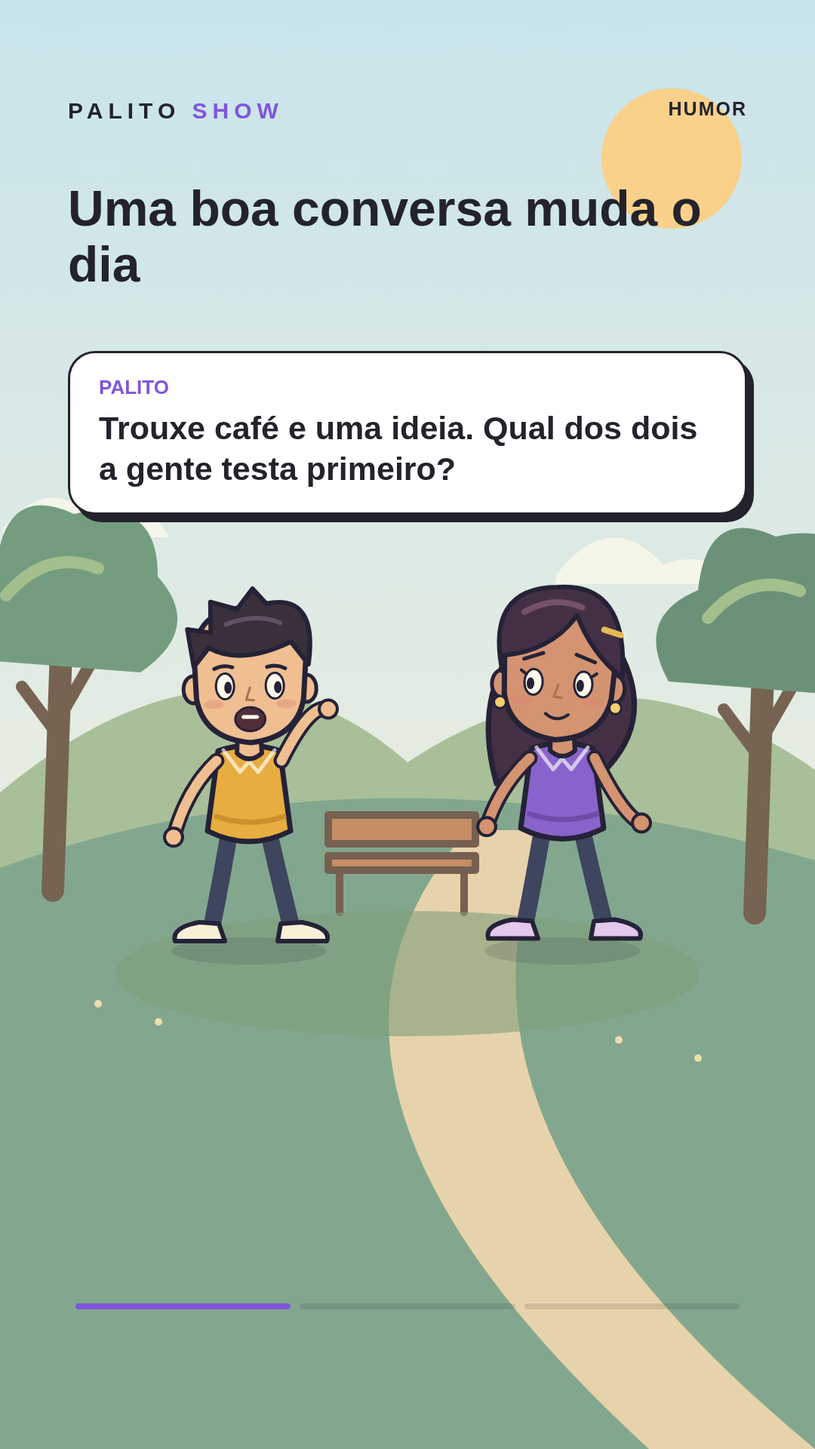
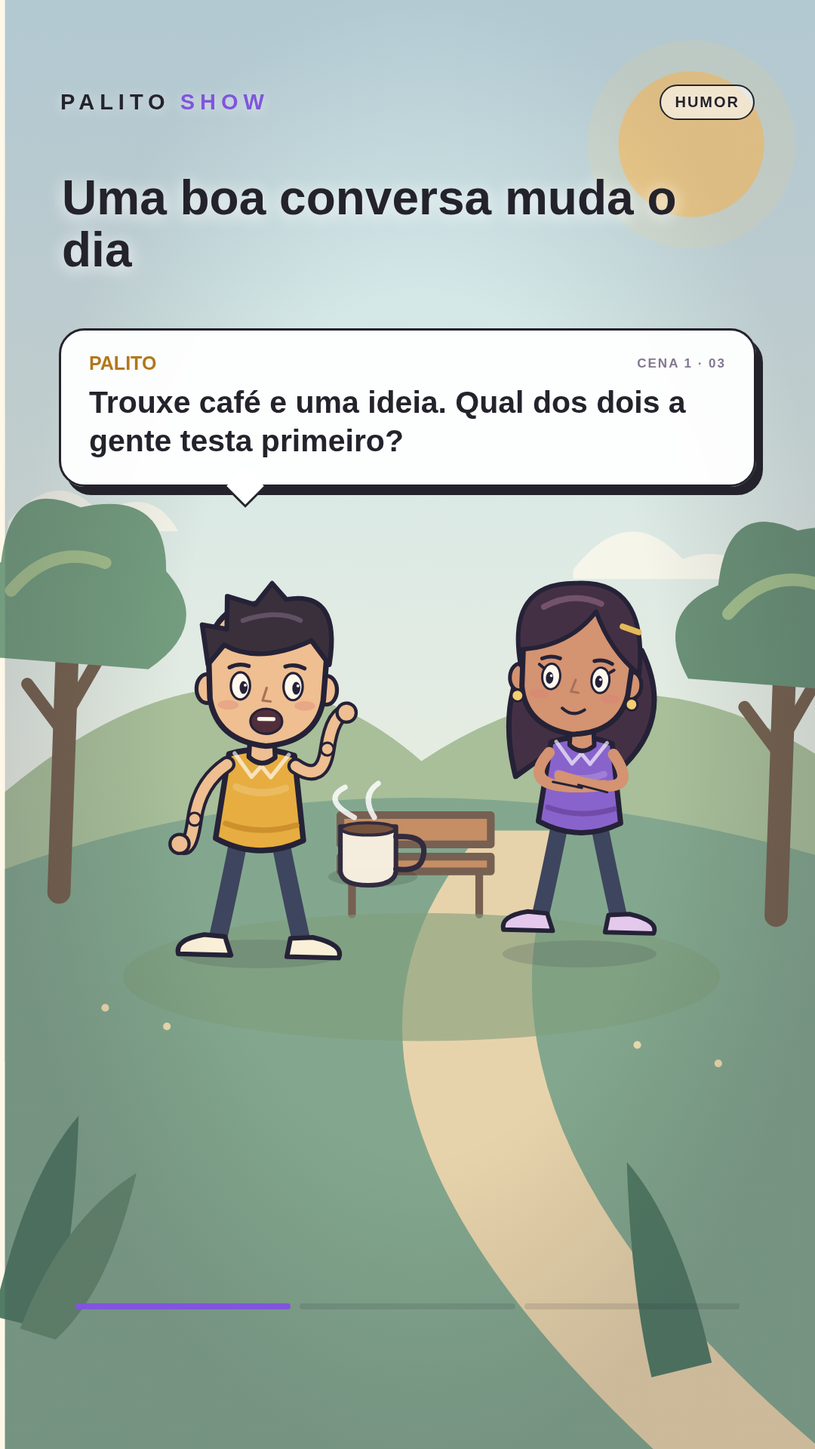
Melhorar animacoes e cenarios do Palito Show

diff --git a/src/Scenery.tsx b/src/Scenery.tsx
@@ -2,14 +2,22 @@ import React from 'react';
 export type Setting='sala'|'parque'|'cafe';
 export function Scenery({setting,frame}:{setting:Setting;frame:number}){const cloud=Math.sin(frame*.006)*18;
  return <g strokeLinecap="round" strokeLinejoin="round">
- <defs><linearGradient id="sky" x2="0" y2="1"><stop stopColor="#c8e4eb"/><stop offset="1" stopColor="#fff3d9"/></linearGradient><linearGradient id="wall" x2="0" y2="1"><stop stopColor="#f8ead8"/><stop offset="1" stopColor="#e8cdb9"/></linearGradient><linearGradient id="ground" x2="0" y2="1"><stop stopColor="#dbbe96"/><stop offset="1" stopColor="#f4e3c6"/></linearGradient></defs>
+ <defs><linearGradient id="sky" x2="0" y2="1"><stop stopColor="#c8e4eb"/><stop offset="1" stopColor="#fff3d9"/></linearGradient><linearGradient id="wall" x2="0" y2="1"><stop stopColor="#f8ead8"/><stop offset="1" stopColor="#e8cdb9"/></linearGradient><linearGradient id="ground" x2="0" y2="1"><stop stopColor="#dbbe96"/><stop offset="1" stopColor="#f4e3c6"/></linearGradient><radialGradient id="vignette"><stop offset="58%" stopColor="#000" stopOpacity="0"/><stop offset="100%" stopColor="#1f1730" stopOpacity=".9"/></radialGradient></defs>
  <rect width="1080" height="1920" fill={setting==='parque'?'url(#sky)':'url(#wall)'}/>
- {setting==='parque'?<><circle cx="890" cy="210" r="93" fill="#f9d18a"/><g transform={`translate(${cloud} 0)`} fill="#fff9ed" opacity=".7"><path d="M0 700q65-76 120-10q66-41 101 22H0Z"/><path d="M733 762q71-92 142-14q59-22 104 26H733Z"/></g><path d="M0 1050Q300 800 540 1010Q810 831 1080 1020V1400H0Z" fill="#a8bf9a"/><path d="M0 1150Q500 970 1080 1140V1920H0Z" fill="#83a78e"/><path d="M620 1100Q325 1430 860 1920H1080Q547 1480 730 1100Z" fill="#e7d3ab"/>
+ {setting==='parque'?<><circle cx="890" cy="210" r={93+Math.sin(frame*.025)*2} fill="#f9d18a"/><circle cx="890" cy="210" r="135" fill="#ffe8a7" opacity=".22"/><g transform={`translate(${cloud} 0)`} fill="#fff9ed" opacity=".7"><path d="M0 700q65-76 120-10q66-41 101 22H0Z"/><path d="M733 762q71-92 142-14q59-22 104 26H733Z"/></g><g transform={`translate(${frame%520-150} ${590+Math.sin(frame*.03)*8})`} stroke="#6a7782" strokeWidth="5" fill="none"><path d="M0 0q16-13 32 0q16-13 32 0"/></g><path d="M0 1050Q300 800 540 1010Q810 831 1080 1020V1400H0Z" fill="#a8bf9a"/><path d="M0 1150Q500 970 1080 1140V1920H0Z" fill="#83a78e"/><path d="M620 1100Q325 1430 860 1920H1080Q547 1480 730 1100Z" fill="#e7d3ab"/>
  {[70,1000].map((x,i)=><g key={x} transform={`translate(${x} ${i?30:0})`}><path d="M0 1180L12 834" stroke="#766351" strokeWidth="30"/><path d="M12 981l-53-71 M10 949l54-94" stroke="#766351" strokeWidth="16"/><path d="M-114 873Q-161 788-75 752Q-63 639 28 681Q140 657 139 764Q201 833 116 891Z" fill={i?'#6b9278':'#749d7f'}/><path d="M-62 789q54-63 122-36" fill="none" stroke="#a3bf8d" strokeWidth="16"/></g>)}<g stroke="#766052" strokeWidth="10" fill="#c58e64"><path d="M435 1080h195v38H435Z M435 1134h195v19H435Z"/><path d="M450 1155v54m165-54v54"/></g><g fill="#edddaf">{[130,210,820,925].map((x,i)=><circle key={x} cx={x} cy={1330+i*24} r="5"/>)}</g></>:
  <><rect y="1160" width="1080" height="760" fill="url(#ground)"/><path d="M0 1160h1080" stroke="#a5836c" strokeWidth="8"/>{[1300,1470,1670,1870].map(y=><path key={y} d={`M0 ${y}h1080`} stroke="#c49f79" opacity=".35" strokeWidth="3"/>)}<path d="M280 1160L0 1920 M800 1160l280 760 M540 1160v760" stroke="#c49f79" strokeWidth="3" opacity=".3"/>
  <g stroke="#a78065" strokeWidth="12"><rect x="78" y="735" width="260" height="300" rx="65" fill="#bcd9df"/><path d="M208 739v290 M84 885h249"/><path d="M99 1009q85-94 223-30" fill="#93b6a1" stroke="none"/></g>
- {setting==='sala'?<><rect x="428" y="906" width="533" height="240" rx="54" fill="#b77765" stroke="#865b52" strokeWidth="7"/><rect x="459" y="1015" width="202" height="116" rx="30" fill="#ce9280"/><rect x="679" y="1015" width="248" height="116" rx="30" fill="#ce9280"/><path d="M450 1140v44m482-44v44" stroke="#735346" strokeWidth="15"/><rect x="511" y="952" width="105" height="79" rx="20" fill="#e9be74" transform="rotate(-8 560 990)"/><path d="M981 1134V856" stroke="#78654f" strokeWidth="13"/><path d="M897 860h170l-36-111h-98Z" fill="#f4cd81"/><rect x="528" y="744" width="190" height="122" rx="8" fill="#fff5e4" stroke="#ac8a69" strokeWidth="8"/><path d="M553 838l48-63 39 41 31-25 25 47Z" fill="#99b5a2"/></>:<><rect x="437" y="921" width="575" height="229" rx="12" fill="#698783" stroke="#466563" strokeWidth="6"/><rect x="419" y="904" width="613" height="30" rx="8" fill="#ad7e57"/><rect x="535" y="746" width="185" height="140" rx="12" fill="#3c5351" stroke="#ab815d" strokeWidth="10"/><text x="628" y="800" textAnchor="middle" fill="#f5e6be" fontSize="28" fontFamily="Arial">CAFÉ &amp; PAPO</text><path d="M575 826h106m-85 22h68" stroke="#b8c9b5" strokeWidth="4"/><rect x="810" y="830" width="120" height="73" rx="12" fill="#cfb897"/><path d="M835 853h70" stroke="#6b645b" strokeWidth="12"/>{[130,905].map(x=><g key={x}><path d={`M${x} 1130v128`} stroke="#746250" strokeWidth="10"/><ellipse cx={x} cy="1130" rx="87" ry="19" fill="#a67e59"/><path d={`M${x-18} 1107v-29h30v29Z`} fill="#fff2d9" stroke="#997a60" strokeWidth="3"/></g>)}</>}
+ {setting==='sala'?<><rect x="428" y="906" width="533" height="240" rx="54" fill="#b77765" stroke="#865b52" strokeWidth="7"/><rect x="459" y="1015" width="202" height="116" rx="30" fill="#ce9280"/><rect x="679" y="1015" width="248" height="116" rx="30" fill="#ce9280"/><path d="M450 1140v44m482-44v44" stroke="#735346" strokeWidth="15"/><rect x="511" y="952" width="105" height="79" rx="20" fill="#e9be74" transform="rotate(-8 560 990)"/><path d="M981 1134V856" stroke="#78654f" strokeWidth="13"/><path d="M897 860h170l-36-111h-98Z" fill="#f4cd81"/><ellipse cx="982" cy="870" rx="132" ry="165" fill="#ffe8a7" opacity={.08+Math.sin(frame*.02)*.012} stroke="none"/><rect x="528" y="744" width="190" height="122" rx="8" fill="#fff5e4" stroke="#ac8a69" strokeWidth="8"/><path d="M553 838l48-63 39 41 31-25 25 47Z" fill="#99b5a2"/></>:<><rect x="437" y="921" width="575" height="229" rx="12" fill="#698783" stroke="#466563" strokeWidth="6"/><rect x="419" y="904" width="613" height="30" rx="8" fill="#ad7e57"/><rect x="535" y="746" width="185" height="140" rx="12" fill="#3c5351" stroke="#ab815d" strokeWidth="10"/><text x="628" y="800" textAnchor="middle" fill="#f5e6be" fontSize="28" fontFamily="Arial">CAFÉ &amp; PAPO</text><path d="M575 826h106m-85 22h68" stroke="#b8c9b5" strokeWidth="4"/><rect x="810" y="830" width="120" height="73" rx="12" fill="#cfb897"/><path d="M835 853h70" stroke="#6b645b" strokeWidth="12"/>{[130,905].map(x=><g key={x}><path d={`M${x} 1130v128`} stroke="#746250" strokeWidth="10"/><ellipse cx={x} cy="1130" rx="87" ry="19" fill="#a67e59"/><path d={`M${x-18} 1107v-29h30v29Z`} fill="#fff2d9" stroke="#997a60" strokeWidth="3"/></g>)}<g opacity={.65+Math.sin(frame*.04)*.08} stroke="#fff" strokeWidth="6" fill="none"><path d="M109 1083q-17-22 2-42 M130 1081q18-23 2-42"/><path d="M884 1083q-17-22 2-42 M907 1081q18-23 2-42"/></g></>}
  <g transform="translate(34 1110)"><path d="M0 0q-52-100 9-138q19 53 13 98q9-87 65-95q7 81-65 123" fill="#658d72"/><path d="M-20-9h66l-9 83h-47Z" fill="#cc946c"/></g></>}
  <ellipse cx="540" cy="1290" rx="387" ry="83" fill={setting==='parque'?'#7e9e7b':'#eee0c5'} opacity=".6"/>
+ </g>;
+}
+
+export function Foreground({setting,frame}:{setting:Setting;frame:number}){
+ const sway=Math.sin(frame*.018)*6;
+ return <g pointerEvents="none">
+  {setting==='parque'?<><g transform={`translate(${-18+sway} 1450)`}><path d="M0 280q40-180 110-260q-5 163-32 279" fill="#527c65"/><path d="M34 296q54-142 151-202q-35 153-105 216" fill="#668b70"/></g><g transform={`translate(${920-sway} 1510) scale(-1 1)`}><path d="M0 280q40-180 110-260q-5 163-32 279" fill="#527c65"/></g></>:<><path d={`M0 1760q95-180 ${190+sway}-97q62 68 120 257H0Z`} fill="#6e8f72" opacity=".42"/><path d={`M1080 1780q-90-167 ${-180-sway}-94q-62 79-108 234h108Z`} fill="#806f9d" opacity=".32"/></>}
+  <rect x="0" y="0" width="1080" height="1920" fill="url(#vignette)" opacity=".15"/>
  </g>;
 }

diff --git a/src/Character.tsx b/src/Character.tsx
@@ -1,32 +1,36 @@
 import React from 'react';
 import type {Scene} from './model';
-export function Character({x,female,action,t,active,mouthLevel}:{x:number;female:boolean;action:Scene['action'];t:number;active:boolean;mouthLevel?:number}){
+type CharacterProps={x:number;female:boolean;action:Scene['action'];t:number;active:boolean;mouthLevel?:number;look?:-1|1;depth?:number};
+export function Character({x,female,action,t,active,mouthLevel,look=female?-1:1,depth=1}:CharacterProps){
  const ink='#252237',skin=female?'#d49371':'#efbe91',shirt=female?'#8963cc':'#e7ad40';
  const walk=action==='andar'?Math.sin(t*.16)*29:0;
  const jump=['pular','comemorar'].includes(action)?-Math.abs(Math.sin(t*.12))*58:0;
- const y=813+jump+Math.sin(t*.08)*3+(action==='rir'?Math.sin(t*.7)*3:0);
+ const breath=Math.sin(t*.075),y=813+jump+breath*3+(action==='rir'?Math.sin(t*.7)*3:0);
  const tilt=action==='escorregar'?Math.sin(Math.min(t/48,1)*Math.PI/2)*42:action==='negar'?Math.sin(t*.2)*4:0;
  const blink=t%130>123, mouth=mouthLevel===undefined?(active?Math.abs(Math.sin(t*.5)):.05):mouthLevel;
  const gesture=active?Math.sin(t*.15)*12:Math.sin(t*.06)*4;
+ const bodyLean=active?look*(2+Math.sin(t*.1)*1.5):look*-1.5;
+ const headTurn=look*(active?3:5),eyeShift=look*(active?4:2);
  const rightY=action==='acenar'?135+Math.sin(t*.28)*26:action==='apontar'?205:['pular','comemorar'].includes(action)?120:280+gesture;
  const leftY=['pular','comemorar'].includes(action)?125:285-gesture;
  return <g data-character={female?'TICA':'PALITO'} stroke={ink} strokeLinecap="round" strokeLinejoin="round">
- <ellipse cx={x} cy="1260" rx="103" ry="18" fill="#29243b" opacity=".14" stroke="none"/>
- <g transform={`translate(${x+walk*.4},${y}) rotate(${tilt} 0 290)`}>
+ <ellipse cx={x} cy="1260" rx={103*depth} ry={18*depth} fill="#29243b" opacity=".14" stroke="none"/>
+ <g transform={`translate(${x+walk*.4},${y}) scale(${depth}) rotate(${tilt+bodyLean} 0 290)`}>
  {female&&<path d="M-77 68 Q-113 136-87 228 L-37 190 58 209 Q122 142 77 55Z" fill="#443044" strokeWidth="7"/>}
  <g strokeWidth="23" fill="none"><path d={`M-26 288 Q${-36+walk} 348 ${-50+walk} 418`} stroke="#3e455e"/><path d={`M26 288 Q${40-walk} 350 ${57-walk} 418`} stroke="#3e455e"/></g>
  <g strokeWidth="6" fill={female?'#e4c9ed':'#faf0d8'}><path d={`M${-66+walk} 408 l26 2 8 23 -66 0 q-5-18 32-25Z`}/><path d={`M${42-walk} 410 l28-2 q40 8 33 25 l-65 0Z`}/></g>
- <path d="M-41 181 Q0 167 41 181 L55 287 Q0 315-55 287Z" fill={shirt} strokeWidth="7"/>
+ <path d={`M-41 181 Q0 ${167+breath*2} 41 181 L55 287 Q0 315-55 287Z`} fill={shirt} strokeWidth="7"/>
  <path d="M-34 180 L-12 209 0 195 12 209 34 180" fill="none" stroke="#fff" strokeOpacity=".65" strokeWidth="5"/>
+ <path d="M-31 222q31 13 62 0" fill="none" stroke="#fff" strokeOpacity=".18" strokeWidth="9"/>
  <path d="M-43 268 Q0 283 46 268" stroke={female?'#704ba8':'#ce902c'} fill="none" strokeWidth="7"/>
  <path d="M-15 157 L-16 184 Q0 199 17 184 L15 155" fill={skin} strokeWidth="6"/>
- {action==='cruzar'?<g fill="none" strokeWidth="15"><path d="M-43 195 Q-89 251 31 237" stroke={skin}/><path d="M43 195 Q90 260-28 226" stroke={skin}/><path d="M-37 234l39 7 M36 246l-39-9" stroke={ink} strokeWidth="3"/></g>:<g fill="none"><path d={`M-43 194 Q-83 232 -100 ${leftY}`} stroke={ink} strokeWidth="21"/><path d={`M-43 194 Q-83 232 -100 ${leftY}`} stroke={skin} strokeWidth="13"/><path d={`M43 194 Q81 ${rightY-8} 105 ${rightY}`} stroke={ink} strokeWidth="21"/><path d={`M43 194 Q81 ${rightY-8} 105 ${rightY}`} stroke={skin} strokeWidth="13"/><circle cx="-100" cy={leftY} r="12" fill={skin} strokeWidth="4"/><circle cx="105" cy={rightY} r="12" fill={skin} strokeWidth="4"/>{action==='apontar'&&<path d={`M111 ${rightY-6}l25-9`} stroke={skin} strokeWidth="8"/>}</g>}
- <g transform={`rotate(${action==='triste'?-8:active?Math.sin(t*.1)*2:3})`}>
+ {action==='cruzar'?<g fill="none" strokeWidth="15"><path d="M-43 195 Q-89 251 31 237" stroke={skin}/><path d="M43 195 Q90 260-28 226" stroke={skin}/><path d="M-37 234l39 7 M36 246l-39-9" stroke={ink} strokeWidth="3"/></g>:<g fill="none"><path d={`M-43 194 Q-77 218 -82 ${238+(leftY-238)*.45} T-100 ${leftY}`} stroke={ink} strokeWidth="21"/><path d={`M-43 194 Q-77 218 -82 ${238+(leftY-238)*.45} T-100 ${leftY}`} stroke={skin} strokeWidth="13"/><path d={`M43 194 Q77 216 82 ${218+(rightY-218)*.5} T105 ${rightY}`} stroke={ink} strokeWidth="21"/><path d={`M43 194 Q77 216 82 ${218+(rightY-218)*.5} T105 ${rightY}`} stroke={skin} strokeWidth="13"/><circle cx="-82" cy={238+(leftY-238)*.45} r="8" fill={skin} strokeWidth="3"/><circle cx="82" cy={218+(rightY-218)*.5} r="8" fill={skin} strokeWidth="3"/><circle cx="-100" cy={leftY} r="12" fill={skin} strokeWidth="4"/><circle cx="105" cy={rightY} r="12" fill={skin} strokeWidth="4"/>{action==='apontar'&&<><path d={`M111 ${rightY-6}l25-9`} stroke={skin} strokeWidth="8"/><path d={`M103 ${rightY+4}l20 8`} stroke={skin} strokeWidth="5"/></>}</g>}
+ <g transform={`translate(${headTurn} 0) rotate(${action==='triste'?-8:active?Math.sin(t*.1)*2:3})`}>
  <ellipse cx="-75" cy="99" rx="13" ry="18" fill={skin} strokeWidth="5"/><ellipse cx="75" cy="99" rx="13" ry="18" fill={skin} strokeWidth="5"/>
  <path d="M-73 65 Q-76-9 0-9 Q81-9 74 67 L71 112 Q62 164 0 170 Q-62 164-71 111Z" fill={skin} strokeWidth="7"/>
  {female?<><path d="M-75 83 Q-103-26-9-32 Q86-44 84 83 Q43 55 20 4 Q-12 53-75 62Z" fill="#443044" strokeWidth="6"/><path d="M-50 3 Q-13-21 26-7" stroke="#74536a" strokeWidth="8" fill="none"/><path d="M57 21l22 6" stroke="#e4ba57" strokeWidth="8"/><circle cx="-76" cy="124" r="8" fill="#f4cf70" strokeWidth="3"/><circle cx="77" cy="124" r="8" fill="#f4cf70" strokeWidth="3"/></>:<><path d="M-74 69 L-82 19 -51 24 -51-17 -16-7 5-34 23-14 Q92-27 78 67 L55 37 Q-11 68-54 44Z" fill="#39303b" strokeWidth="6"/><path d="M-31 13Q12-2 41 12" stroke="#625064" strokeWidth="6" fill="none"/></>}
  <g strokeWidth="5" fill="none"><path d={action==='surpresa'?'M-47 65l25-9 M22 56l25 9':action==='triste'?'M-48 74l27-10 M21 64l27 10':'M-47 72q12-6 24-2 M23 70q12-4 24 2'}/></g>
- {blink?<path d="M-43 93q10 6 20 0 M23 93q10 6 20 0" strokeWidth="5" fill="none"/>:<g><ellipse cx="-33" cy="95" rx="12" ry="17" fill="#fff9ed" strokeWidth="3"/><ellipse cx="33" cy="95" rx="12" ry="17" fill="#fff9ed" strokeWidth="3"/><ellipse cx={female?-37:-29} cy="97" rx="5" ry="8" fill={ink} stroke="none"/><ellipse cx={female?29:37} cy="97" rx="5" ry="8" fill={ink} stroke="none"/>{female&&<path d="M-43 85l-7-5 M43 85l7-5" strokeWidth="4"/>}</g>}
+ {blink?<path d="M-43 93q10 6 20 0 M23 93q10 6 20 0" strokeWidth="5" fill="none"/>:<g><ellipse cx="-33" cy="95" rx="12" ry="17" fill="#fff9ed" strokeWidth="3"/><ellipse cx="33" cy="95" rx="12" ry="17" fill="#fff9ed" strokeWidth="3"/><ellipse cx={-33+eyeShift} cy="97" rx="5" ry="8" fill={ink} stroke="none"/><ellipse cx={33+eyeShift} cy="97" rx="5" ry="8" fill={ink} stroke="none"/><circle cx={-31+eyeShift} cy="94" r="1.8" fill="#fff" stroke="none"/><circle cx={35+eyeShift} cy="94" r="1.8" fill="#fff" stroke="none"/>{female&&<path d="M-43 85l-7-5 M43 85l7-5" strokeWidth="4"/>}</g>}
  <path d="M0 97l-5 16 10 1" fill="none" stroke="#a87058" strokeWidth="3"/>
  <ellipse cx="-48" cy="119" rx="13" ry="6" fill="#dd7d76" opacity=".35" stroke="none"/><ellipse cx="48" cy="119" rx="13" ry="6" fill="#dd7d76" opacity=".35" stroke="none"/>
  {mouth>.08?<><ellipse cx="0" cy="139" rx={15+mouth*5} ry={3+mouth*13} fill="#522e3b" strokeWidth="3"/><path d="M-9 136h18" stroke="#fff9ed" strokeWidth="5"/></>:<path d={action==='triste'?'M-15 143q15-13 30 0':'M-15 136q15 12 30 0'} fill="none" strokeWidth="4"/>}

diff --git a/src/Video.tsx b/src/Video.tsx
@@ -3,23 +3,37 @@ import {AbsoluteFill,Audio,Sequence,interpolate,staticFile,useCurrentFrame} from
 import {sceneTimes,type Project,type Scene} from './model';
 import {narrationMouthAt,type Narration} from './narration';
 import {Character} from './Character';
+import {Foreground} from './Scenery';
 import {Scenery} from './Scenery';
+import {ActionAccent,inferStoryProp,StoryObject} from './SceneProps';
 export type VideoProps={project:Project;narration?:Narration};
 export function Video({project,narration}:VideoProps){
  const frame=useCurrentFrame();const times=narration?.scenes??sceneTimes(project);const index=Math.max(0,times.findIndex(s=>frame>=s.start&&frame<s.end));const scene=project.scenes[index];const t=frame-times[index].start;
  const mouthLevel=narration?narrationMouthAt(narration.scenes[index],frame):undefined;
  const fade=interpolate(t,[0,8],[0,1],{extrapolateRight:'clamp'});
+ const setting=project.setting||(project.category==='Humor'?'sala':project.category==='Reflexões'?'cafe':'parque');
+ const sceneLength=Math.max(1,times[index].end-times[index].start),progress=Math.min(1,t/sceneLength);
+ const cameraZoom=1.018+progress*.026,cameraPan=scene.speaker==='PALITO'?18:-18;
+ const storyProp=inferStoryProp(project,scene),activeX=scene.speaker==='PALITO'?330:745;
+ const inactiveAction:Scene['action']=scene.action==='surpresa'?'surpresa':index===project.scenes.length-1?'acenar':'cruzar';
  const bg={creme:'#fff7e8',azul:'#e9f5ff',lilas:'#f0eaff'}[project.background];
  return <AbsoluteFill style={{background:bg,fontFamily:'Arial, sans-serif',color:'#24232c',overflow:'hidden'}}>
  <svg viewBox="0 0 1080 1920" width="1080" height="1920" style={{position:'absolute'}}>
- <Scenery setting={project.setting||(project.category==='Humor'?'sala':project.category==='Reflexões'?'cafe':'parque')} frame={frame}/>
- <Character x={330} female={false} action={scene.speaker==='PALITO'?scene.action:'cruzar'} t={t} active={scene.speaker==='PALITO'} mouthLevel={narration?(scene.speaker==='PALITO'?mouthLevel:0):undefined}/>
- <Character x={745} female={true} action={scene.speaker==='TICO'?scene.action:index===2?'rir':'surpresa'} t={t+17} active={scene.speaker==='TICO'} mouthLevel={narration?(scene.speaker==='TICO'?mouthLevel:0):undefined}/>
+ <g transform={`translate(540 1080) scale(${cameraZoom}) translate(${-540+cameraPan} -1080)`}>
+  <Scenery setting={setting} frame={frame}/>
+  <StoryObject kind={storyProp} x={scene.speaker==='PALITO'?477:596} y={1095} t={t} active/>
+  <Character x={330} female={false} action={scene.speaker==='PALITO'?scene.action:inactiveAction} t={t} active={scene.speaker==='PALITO'} look={1} depth={scene.speaker==='PALITO'?1.035:.97} mouthLevel={narration?(scene.speaker==='PALITO'?mouthLevel:0):undefined}/>
+  <Character x={745} female={true} action={scene.speaker==='TICO'?scene.action:inactiveAction} t={t+17} active={scene.speaker==='TICO'} look={-1} depth={scene.speaker==='TICO'?1.035:.97} mouthLevel={narration?(scene.speaker==='TICO'?mouthLevel:0):undefined}/>
+  <ActionAccent action={scene.action} x={activeX} y={805} t={t}/>
+  <Foreground setting={setting} frame={frame}/>
+ </g>
  </svg>
- <div style={{position:'absolute',top:130,left:90,right:90,fontSize:30,letterSpacing:7,fontWeight:800}}>PALITO <span style={{color:'#8055dd'}}>SHOW</span><span style={{float:'right',fontSize:25,letterSpacing:2}}>{project.category.toUpperCase()}</span></div>
- <div style={{position:'absolute',top:240,left:90,right:90,fontSize:project.title.length>50?48:66,lineHeight:1.12,fontWeight:900,overflowWrap:'anywhere'}}>{project.title}</div>
- <div style={{position:'absolute',top:465,left:90,right:90,background:'white',border:'3px solid #24232c',borderRadius:36,padding:'30px 38px',boxShadow:'9px 10px 0 #24232c',opacity:fade,transform:`translateY(${(1-fade)*20}px)`}}>
- <div style={{fontSize:26,fontWeight:900,color:scene.speaker==='TICO'?'#3275d5':'#8055dd',marginBottom:12}}>{scene.speaker==='TICO'?'TICA':'PALITO'}</div><div style={{fontSize:scene.line.length>180?34:43,fontWeight:700,lineHeight:1.25,overflowWrap:'anywhere'}}>{scene.line}</div></div>
+ <div style={{position:'absolute',top:112,left:80,right:80,display:'flex',alignItems:'center',justifyContent:'space-between',fontSize:29,letterSpacing:7,fontWeight:900,textShadow:'0 2px 16px #fff9'}}>PALITO <span style={{color:'#8055dd',marginRight:'auto',marginLeft:13}}>SHOW</span><span style={{fontSize:20,letterSpacing:2,background:'#fff9',border:'2px solid #24232c',padding:'10px 18px',borderRadius:99}}>{project.category.toUpperCase()}</span></div>
+ <div style={{position:'absolute',top:228,left:82,right:82,fontSize:project.title.length>50?46:64,lineHeight:1.08,fontWeight:900,overflowWrap:'anywhere',textShadow:'0 3px 22px #fff'}}>{project.title}</div>
+ <div style={{position:'absolute',top:435,left:78,right:78,background:'rgba(255,255,255,.95)',border:'3px solid #24232c',borderRadius:34,padding:'29px 37px 32px',boxShadow:'9px 11px 0 #24232c',opacity:fade,transform:`translateY(${(1-fade)*24}px) scale(${.98+fade*.02})`,backdropFilter:'blur(8px)'}}>
+ <div style={{display:'flex',alignItems:'center',justifyContent:'space-between',marginBottom:12}}><span style={{fontSize:25,fontWeight:900,color:scene.speaker==='TICO'?'#6f55b5':'#b1781c'}}>{scene.speaker==='TICO'?'TICA':'PALITO'}</span><span style={{fontSize:17,fontWeight:800,letterSpacing:2,color:'#82788f'}}>CENA {index+1} · {String(project.scenes.length).padStart(2,'0')}</span></div><div style={{fontSize:scene.line.length>180?32:41,fontWeight:750,lineHeight:1.24,overflowWrap:'anywhere'}}>{scene.line}</div>
+ <div style={{position:'absolute',bottom:-23,left:scene.speaker==='PALITO'?225:750,width:38,height:38,background:'white',borderRight:'3px solid #24232c',borderBottom:'3px solid #24232c',transform:'rotate(45deg)'}}/>
+ </div>
  <div style={{position:'absolute',bottom:280,left:100,right:100,textAlign:'center',fontSize:38,fontWeight:700,lineHeight:1.3,opacity:fade}}>{scene.caption}</div>
  <div style={{position:'absolute',bottom:185,left:100,right:100,display:'flex',gap:12}}>{times.map((s,i)=><div key={i} style={{height:8,flex:1,borderRadius:8,background:i<=index?'#8055dd':'#24232c20'}}/>)}</div>
  {narration?.scenes.map((s,i)=><Sequence key={`speech-${i}`} from={s.audioStart} durationInFrames={s.audioEnd-s.audioStart}><Audio src={s.src} volume={1}/></Sequence>)}

diff --git a/src/SceneProps.tsx b/src/SceneProps.tsx
@@ -1,0 +1,45 @@
+import React from 'react';
+import type {Project,Scene} from './model';
+
+export type StoryProp='cafe'|'celular'|'presente'|'lista'|'halter'|'pizza'|'chuva'|'wifi'|'nenhum';
+
+export function inferStoryProp(project:Project,scene:Scene):StoryProp{
+ const text=`${project.title} ${scene.line} ${scene.caption}`.toLocaleLowerCase('pt-BR');
+ if(/caf[eé]|[áa]gua/.test(text))return 'cafe';
+ if(/celular|telefone|playlist/.test(text))return 'celular';
+ if(/presente|caixa|fam[ií]lia/.test(text))return 'presente';
+ if(/lista|tarefas|disciplina/.test(text))return 'lista';
+ if(/academia|exerc[ií]cio/.test(text))return 'halter';
+ if(/pizza|receita|chef|fome/.test(text))return 'pizza';
+ if(/chuva|janela|sol/.test(text))return 'chuva';
+ if(/wi-?fi|conex[aã]o|senha/.test(text))return 'wifi';
+ return 'nenhum';
+}
+
+export function StoryObject({kind,x,y,t,active}:{kind:StoryProp;x:number;y:number;t:number;active:boolean}){
+ const bob=Math.sin(t*.09)*3,appear=Math.min(1,t/10),ink='#302a3e';
+ const transform=`translate(${x} ${y+bob}) scale(${.86+.14*appear})`;
+ if(kind==='nenhum')return null;
+ return <g data-story-object={kind} transform={transform} opacity={active?.98:.72} stroke={ink} strokeLinecap="round" strokeLinejoin="round">
+  {kind==='cafe'&&<><ellipse cx="0" cy="65" rx="58" ry="13" fill="#000" opacity=".12" stroke="none"/><path d="M-42 0h72v58q-2 18-36 18t-36-18Z" fill="#f7efe0" strokeWidth="6"/><path d="M30 13q43-3 35 27q-4 19-35 15" fill="none" strokeWidth="7"/><path d={`M-24-12q${-36+Math.sin(t*.12)*8}-23-12-39 M2-12q${-10+Math.sin(t*.1+1)*8}-28 5-44`} fill="none" stroke="#fff" strokeWidth="7" opacity=".85"/><ellipse cx="-6" cy="3" rx="35" ry="8" fill="#76513d" strokeWidth="4"/></>}
+  {kind==='celular'&&<g transform={`rotate(${-9+Math.sin(t*.07)*2})`}><rect x="-34" y="-68" width="68" height="130" rx="13" fill="#3d4663" strokeWidth="7"/><rect x="-25" y="-51" width="50" height="88" rx="6" fill="#b9e7ed" strokeWidth="3"/><circle cy="50" r="5" fill="#fff" stroke="none"/><path d="M-14-25h28m-28 15h18m-18 15h25" stroke="#668a99" strokeWidth="5"/></g>}
+  {kind==='presente'&&<><rect x="-58" y="-22" width="116" height="88" rx="7" fill="#df8a94" strokeWidth="7"/><path d="M0-22v88M-62 1h124" fill="none" stroke="#f7d27f" strokeWidth="14"/><path d="M0-23q-48-8-38-37q8-22 38 37Zm0 0q48-8 38-37q-8-22-38 37Z" fill="#f7d27f" strokeWidth="6"/></>}
+  {kind==='lista'&&<g transform="rotate(-4)"><rect x="-55" y="-67" width="110" height="142" rx="8" fill="#fffdf5" strokeWidth="7"/><rect x="-25" y="-78" width="50" height="22" rx="8" fill="#9c79d5" strokeWidth="5"/>{[-34,0,34].map((yy,i)=><g key={yy}><rect x="-39" y={yy-9} width="17" height="17" rx="3" fill={i<2?'#8ab995':'#fff'} strokeWidth="3"/><path d={`M-10 ${yy}h43`} strokeWidth="5"/></g>)}</g>}
+  {kind==='halter'&&<g transform={`rotate(${Math.sin(t*.12)*9})`} strokeWidth="8"><path d="M-56 0h112"/><rect x="-76" y="-31" width="25" height="62" rx="5" fill="#68738e"/><rect x="51" y="-31" width="25" height="62" rx="5" fill="#68738e"/><rect x="-91" y="-21" width="17" height="42" rx="4" fill="#424b62"/><rect x="74" y="-21" width="17" height="42" rx="4" fill="#424b62"/></g>}
+  {kind==='pizza'&&<g transform="rotate(4)"><path d="M-78 15h156l-13 72H-65Z" fill="#d88b58" strokeWidth="7"/><path d="M-70 15L-47-24H49L71 15Z" fill="#f0b873" strokeWidth="7"/><path d="M-45-15L0 69 44-15Z" fill="#f5d278" strokeWidth="5"/><circle cx="-14" cy="5" r="9" fill="#c85e50" stroke="none"/><circle cx="17" cy="24" r="9" fill="#c85e50" stroke="none"/><circle cx="1" cy="48" r="8" fill="#c85e50" stroke="none"/></g>}
+  {kind==='chuva'&&<><path d="M-83 3Q0-75 83 3Q0-22-83 3Z" fill="#8bb8d7" strokeWidth="7"/><path d="M0 0v83q0 26 24 12" fill="none" strokeWidth="8"/><path d="M-58-50l-14-22m28 12-7-27m101 34 14-23m-29 13 8-27" stroke="#82b8d8" strokeWidth="7"/></>}
+  {kind==='wifi'&&<g fill="none" stroke="#6c82cd" strokeWidth="10"><path d="M-73-5q73-70 146 0"/><path d="M-48 21q48-46 96 0"/><path d="M-23 47q23-22 46 0"/><circle cy="70" r="7" fill="#6c82cd" stroke="none"/></g>}
+ </g>;
+}
+
+export function ActionAccent({action,x,y,t}:{action:Scene['action'];x:number;y:number;t:number}){
+ const pulse=.85+Math.sin(t*.2)*.08;
+ if(!['surpresa','rir','comemorar','triste','escorregar'].includes(action))return null;
+ return <g transform={`translate(${x} ${y}) scale(${pulse})`} fill="none" strokeLinecap="round">
+  {action==='surpresa'&&<g stroke="#f0b949" strokeWidth="10"><path d="M0-65v-42M-55-36l-33-28M55-36l33-28"/></g>}
+  {action==='rir'&&<g fill="#7e62c5" stroke="none"><path d="M-73-18q-27 22 0 43q-9-20 12-27Z"/><path d="M72-18q28 22 0 43q9-20-12-27Z"/></g>}
+  {action==='comemorar'&&<g strokeWidth="8"><path d="M-82-22l-25-16M82-22l25-16" stroke="#ecb94f"/><circle cx="-103" cy="-66" r="8" fill="#8d6ad0" stroke="none"/><circle cx="103" cy="-66" r="8" fill="#d66f7a" stroke="none"/></g>}
+  {action==='triste'&&<path d="M43-50q22 28 0 44q-22-16 0-44Z" fill="#78b9df" stroke="#4d7c9d" strokeWidth="4"/>}
+  {action==='escorregar'&&<path d="M-95 30q47-29 96 0M-112 54q48-28 94 0" stroke="#8c7ca7" strokeWidth="8"/>}
+ </g>;
+}

diff --git a/tests/model.test.ts b/tests/model.test.ts
@@ -3,8 +3,10 @@ import assert from 'node:assert/strict';
 import {catalog,ensurePlan,generate,initialState} from '../src/catalog';
 import {categories,dateKey,projectSchema,sceneTimes,stateSchema,tooLong} from '../src/model';
 import {parseBackup} from '../src/store';
+import {inferStoryProp} from '../src/SceneProps';
 test('28 histórias válidas, sete por categoria, sem títulos repetidos',()=>{assert.equal(catalog.length,28);assert.equal(new Set(catalog.map(p=>p.title)).size,28);for(const c of categories){assert.equal(catalog.filter(p=>p.category===c).length,7);for(const duration of [15,30] as const){const p=generate(c,duration,true);assert.ok(projectSchema.safeParse(p).success);assert.equal(tooLong(p),false);}}});
 test('planejamento preserva edições e IDs entre aberturas e avança o calendário',()=>{const now=new Date(2026,10,2);const a=ensurePlan(initialState(),now);assert.equal(Object.keys(a.plan).length,7);a.projects[0].title='Edição aprovada';const b=ensurePlan(JSON.parse(JSON.stringify(a)),now);assert.deepEqual(b,a);const c=ensurePlan(b,new Date(2026,10,3));assert.equal(Object.keys(c.plan).length,8);assert.equal(c.projects[0].title,'Edição aprovada');assert.equal(dateKey(now),'2026-11-02');});
 test('geração não repete imediatamente a última história',()=>{for(const c of categories){let p=generate(c,15,false);for(let i=0;i<30;i++){const next=generate(c,15,false,p.title);assert.notEqual(next.title,p.title);p=next;}}});
 test('cenas cobrem exatamente 15 e 30 segundos sem lacunas',()=>{for(const duration of [15,30] as const){const p=generate('Humor',duration,true);const times=sceneTimes(p);assert.equal(times[0].start,0);assert.equal(times.at(-1)?.end,duration*30);times.forEach((t,i)=>{assert.ok(t.end>t.start);if(i)assert.equal(t.start,times[i-1].end);});}});
 test('backup roundtrip e rejeição de dados malformados ou referências órfãs',()=>{const a=ensurePlan(initialState());assert.deepEqual(parseBackup(JSON.stringify(a)),a);assert.throws(()=>parseBackup('{'));assert.throws(()=>parseBackup('{"version":1}'));assert.equal(stateSchema.safeParse({...a,plan:{bad:'missing'}}).success,false);assert.equal(projectSchema.safeParse({...a.projects[0],title:''}).success,false);const long={...a.projects[0],scenes:a.projects[0].scenes.map(s=>({...s,line:'x'.repeat(240)}))};assert.equal(tooLong(long),true);});
+test('objetos de cena acompanham o assunto da fala',()=>{const p={...generate('Humor',15,true),title:'Conversa comum'};const scene={...p.scenes[0],line:'Peguei o celular para pedir uma pizza',caption:''};assert.equal(inferStoryProp(p,scene),'celular');assert.equal(inferStoryProp({...p,title:'Treino na academia'}, {...scene,line:'Vamos começar',caption:''}),'halter');assert.equal(inferStoryProp(p,{...scene,line:'Olá',caption:''}),'nenhum');});

diff --git a/README.md b/README.md
@@ -100,8 +100,10 @@ O teste de renderização gera `examples/palito-show.mp4`, verifica codec, taman
 
 ## Atualização visual: dupla desenhada e cenários
 
-Palito tem apresentação masculina, cabelo curto, camiseta e tênis; Tica tem apresentação feminina, cabelo longo, brincos, blusa e tênis. O identificador interno TICO foi preservado para abrir projetos e backups existentes. Corpos, mãos, pés e rostos são vetoriais; braços e pernas se movem separadamente, a boca continua sincronizada ao áudio.
+Palito tem apresentação masculina, cabelo curto, camiseta e tênis; Tica tem apresentação feminina, cabelo longo, brincos, blusa e tênis. O identificador interno TICO foi preservado para abrir projetos e backups existentes. Corpos, mãos, pés e rostos são vetoriais; braços e pernas têm articulações, os personagens respiram, piscam, olham um para o outro e a boca continua sincronizada ao áudio.
 
-Sala com sofá/janela/luminária, parque com árvores/banco/caminho e café com balcão/mesas. A categoria escolhe automaticamente o cenário; o editor permite selecionar outro. As imagens `examples/visual-sala.png`, `visual-parque.png` e `visual-cafe.png` vêm da composição real. Vídeos já exportados preservam o desenho anterior; gere novamente para usar o novo visual.
+Sala com sofá/janela/luminária, parque com árvores/banco/caminho e café com balcão/mesas. Os cenários têm movimento ambiente, profundidade em primeiro plano, luz e enquadramento que acompanha quem está falando. A categoria escolhe automaticamente o cenário; o editor permite selecionar outro.
+
+O texto da história pode colocar objetos na cena, como café, celular, presente, lista, halter, pizza, chuva ou Wi-Fi. Surpresa, riso, comemoração, tristeza e queda também recebem efeitos visuais próprios. As imagens `examples/visual-sala.png`, `visual-parque.png` e `visual-cafe.png` vêm da composição real. Vídeos já exportados preservam o desenho anterior; gere novamente para usar o novo visual.
 
 As vozes ainda são eSpeak sintéticas. O download de modelos neurais em huggingface.co continua bloqueado no ambiente atual. Foi salva uma adição desse domínio ao rascunho de rede, sem publicação. Depois de aplicar o acesso será necessário avaliar licença, português brasileiro, voz masculina/feminina, velocidade no computador e incorporar/testar o novo motor. A simples troca de pitch não torna as vozes neurais.
